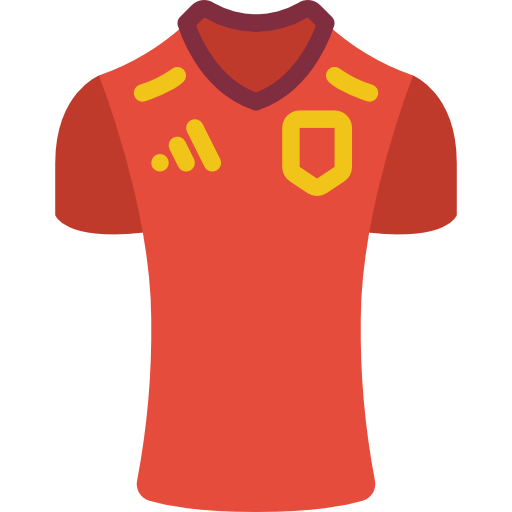
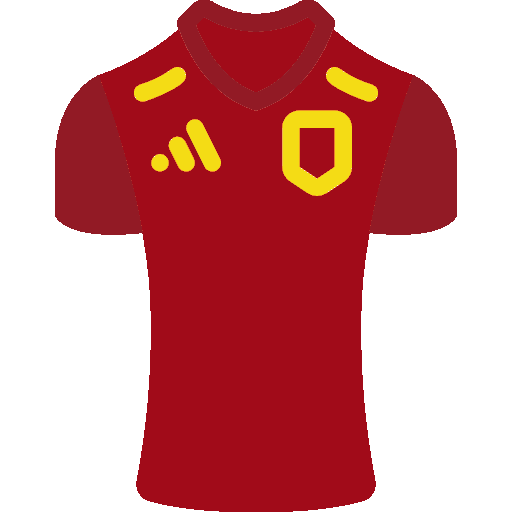
ajout d'un gardien, changement des couleurs de maillot, comok de base affichée

diff --git a/gui/player_widget.py b/gui/player_widget.py
@@ -8,8 +8,7 @@ class PlayerWidget(Canvas):
         self.scale = scale
 
         # Charger l'image avec PIL en conservant la transparence
-        image = Image.open(image_path)
-        image = image.convert("RGBA")
+        image = Image.open(image_path).convert("RGBA")
 
         # Redimensionner l'image si nécessaire
         if scale != 1.0:
@@ -21,8 +20,10 @@ class PlayerWidget(Canvas):
         photo_image = ImageTk.PhotoImage(image=image)
 
         # Appeler le constructeur de la classe parente pour créer le canvas
-        Canvas.__init__(self, master, width=photo_image.width(), height=photo_image.height(), highlightthickness=0)
+        Canvas.__init__(self, master, width=photo_image.width(), height=photo_image.height(), highlightthickness=2, highlightbackground="#00a153")
         self.create_image(0, 0, image=photo_image, anchor="nw")
+        self.config(bg="#00a153")
+
 
         # Placer le widget du joueur sur le canvas aux coordonnées spécifiées
         self.place(x=x, y=y)
@@ -31,14 +32,6 @@ class PlayerWidget(Canvas):
 
 
 
-    def load_image(self):
-        image = cv2.imread(self.image_path, cv2.IMREAD_UNCHANGED)
-        width = int(image.shape[1] * self.scale)
-        height = int(image.shape[0] * self.scale)
-        image = cv2.resize(image, (width, height), interpolation=cv2.INTER_AREA)
-
-        image_rgba = cv2.cvtColor(image, cv2.COLOR_BGR2RGBA)
-        self.image = ImageTk.PhotoImage(image=Image.fromarray(image_rgba))
 
     def on_player_drag(self, event):
         if self.selected_player:
@@ -47,3 +40,18 @@ class PlayerWidget(Canvas):
             self.master.master.canvas.move(self.tag, delta_x, delta_y)
             self.last_mouse_x = event.x
             self.last_mouse_y = event.y
+
+    def get_position(self):
+        """Récupère les coordonnées du joueur (coin supérieur gauche)"""
+        x = self.winfo_x()
+        y = self.winfo_y()
+        return x, y
+
+    def get_center(self):
+        """Récupère les coordonnées du centre du joueur"""
+        x, y = self.get_position()
+        width = self.winfo_width()
+        height = self.winfo_height()
+        center_x = x + width / 2
+        center_y = y + height / 2
+        return center_x, center_y

diff --git a/main.py b/main.py
@@ -21,17 +21,25 @@ if __name__ == "__main__":
 
     app.load_background_image("assets/terrain.png")
 
-    app.add_player(100, 100, "assets/maillot.png")
-    app.add_player(200, 100, "assets/maillot.png")
-    app.add_player(300, 100, "assets/maillot.png")
-    app.add_player(400, 100, "assets/maillot.png")
-    app.add_player(100, 200, "assets/maillot.png")
-    app.add_player(200, 200, "assets/maillot.png")
-    app.add_player(300, 200, "assets/maillot.png")
+    # template de compo en 4-2-3-1
+
+    app.add_player(95, 360, "assets/gardien.png")
+
+    app.add_player(250, 250, "assets/maillot.png")
+    app.add_player(250, 470, "assets/maillot.png")
+    app.add_player(250, 90, "assets/maillot.png")
+    app.add_player(250, 650, "assets/maillot.png")
+
     app.add_player(400, 200, "assets/maillot.png")
-    app.add_player(100, 300, "assets/maillot.png")
-    app.add_player(200, 300, "assets/maillot.png")
-    app.add_player(300, 300, "assets/maillot.png")
+    app.add_player(400, 500, "assets/maillot.png")
+
+    app.add_player(563, 120, "assets/maillot.png")
+    app.add_player(563, 360, "assets/maillot.png")
+    app.add_player(563, 590, "assets/maillot.png")
+
+    app.add_player(750, 360, "assets/maillot.png")
+
+
 
     root.config(menu=menu_bar)  # Définir la barre de menu dans la fenêtre principale
 

diff --git a/gui/main_window.py b/gui/main_window.py
@@ -109,6 +109,8 @@ class MainWindow(Frame):
         if self.drag_motion_id:
             self.after_cancel(self.drag_motion_id)
         self.selected_player = None
+        # afficher les coordonnées du joueur
+        print(self.canvas.coords(self.selected_player.tag))
 
     def on_player_drag(self, event):
         if self.selected_player:
